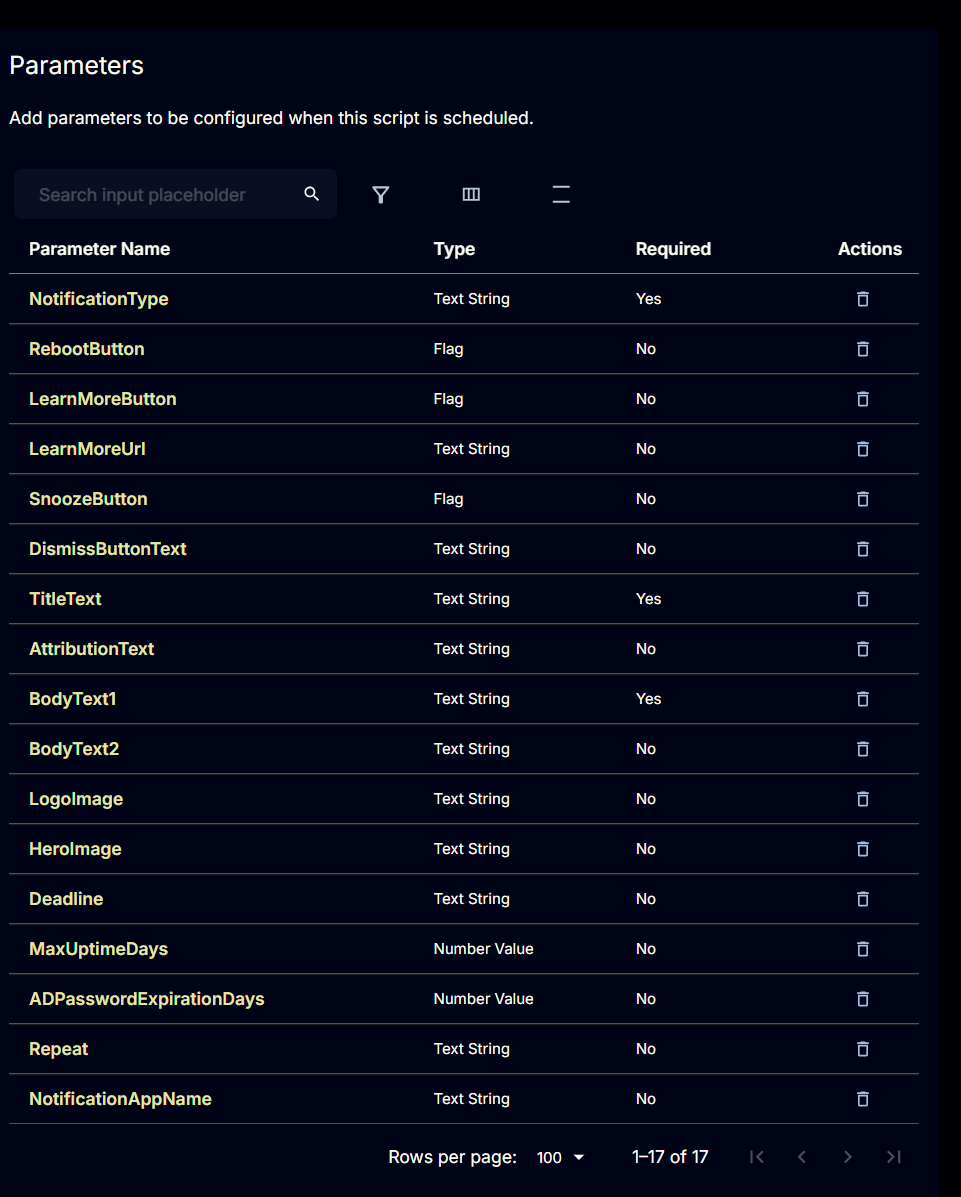
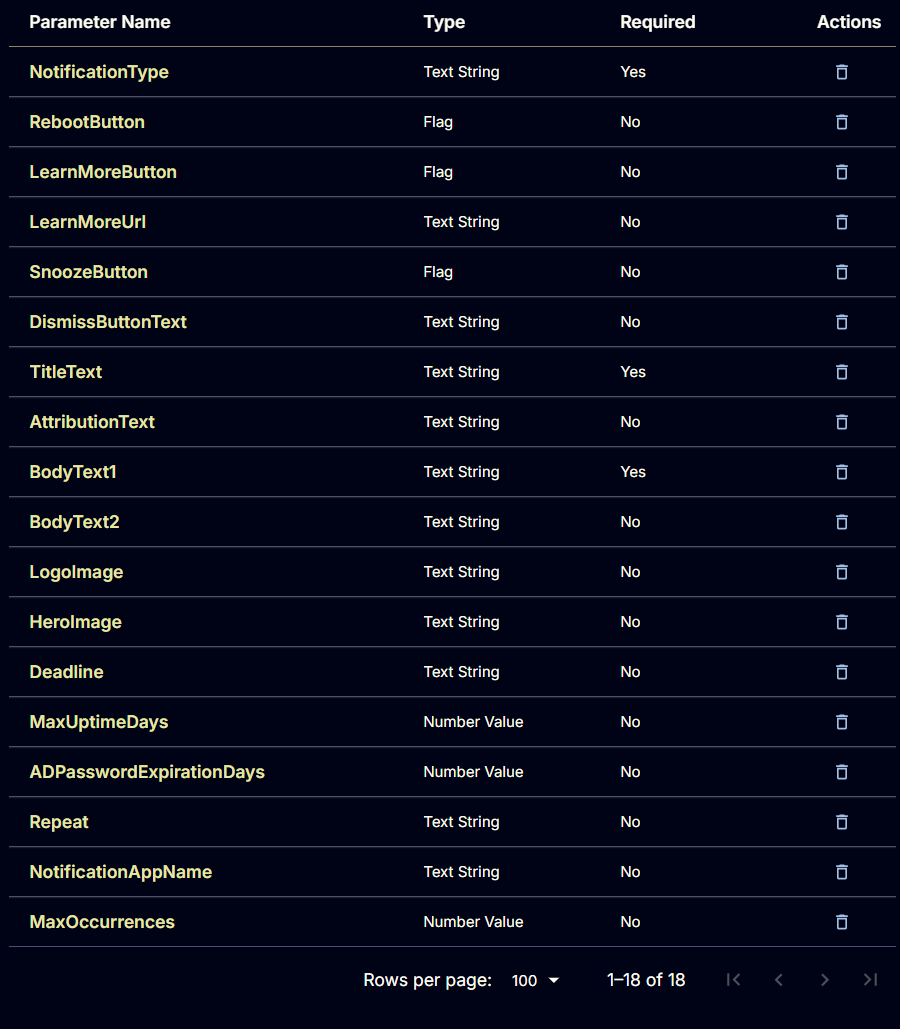
Update Toast-Notification
- Added `MaxOccurrences` parameter to the both CW RMM and Automate implementation of the script

diff --git a/docs/cwrmm/tasks/toast-notification.md b/docs/cwrmm/tasks/toast-notification.md
@@ -15,13 +15,16 @@ unlisted: false
 This task is to create and manage toast notifications with customizable options, including images, buttons, and scenarios for different use cases. It is CW RMM implementation of the agnostic script [Invoke-ToastNotification.ps1](/docs/426118d9-ff83-444e-9744-30a0e26cb490).
 
 ## Sample Run
+
 ![Image1](../../../static/img/cw-rmm-task-toast-notification/Image1.png)
 ![Image2](../../../static/img/cw-rmm-task-toast-notification/Image2.png)
 
 ## Dependencies
+
 [Invoke-ToastNotification](/docs/426118d9-ff83-444e-9744-30a0e26cb490)
 
 ## User Parameters
+
 | Parameter                  | Example                         | Accepted Values             | Required | Default       | Type        | Description              |
 |----------------------------|--------------------------------------------------------------------------------------------------------------|----------------------------------------------------------------------------------------------------------|----------|---------------|-------------|-----------------------------------------------------------------------------------------------------------------------------------------------------------------------------------------------------------------------------------|
 | NotificationType           | Generic                         | Generic<br /> PendingRebootUptime<br /> PendingRebootCheck<br /> ADPasswordExpiration                      | True     |               | Text        | The type of notification to send. The accepted values for NotificationType are generic, PendingRebootUptime, PendingRebootCheck, and ADPasswordExpiration. It is a mandatory variable.<br /><br />**Generic**: Enables a static, generic toast notification.<br /><br />**PendingRebootUptime**: Displays a toast notification reminding users to restart their system after exceeding the maximum uptime.<br /><br />**PendingRebootCheck**: Displays a toast notification when a pending reboot is detected through the system registry or WMI.<br /><br />**ADPasswordExpiration**: Sends a toast notification to users when their Active Directory password is nearing expiration. |
@@ -41,7 +44,7 @@ This task is to create and manage toast notifications with customizable options,
 | ADPasswordExpirationDays   | 7                               |                             | False    | 7             | NumberValue | Number of days before password expiration when reminders should start. It is available for the `ADPasswordExpiration` NotificationType parameter. Default is 7 days.   |
 | Repeat                     | Once                            | Once, Hourly, XXMinutes, XXHours, Daily, XXDays.                  | False    | Once          | Text        | Specifies how frequently the notification should repeat. Options: Once, Hourly, XXMinutes, XXHours, Daily, XXDays. |
 | NotificationAppName        | Connectwise RMM  |  | False    | Windows PowerShell          | Text        | Specifies the name of the application that will display the notification. |
-
+| MaxOccurrences        | 5  |  | False    |  | Number Values   | Specifies the maximum number of notifications to send before the scheduled task is automatically removed. This works in conjunction with the `Repeat` parameter, except when `Repeat` is set to `Once`. |
 
 **NOTE: For All String Parameters (Specifically for TitleText, BodyText1, and BodyText2)  
 Keep the message under 300 characters.  
@@ -363,7 +366,24 @@ Add another parameter by clicking the `Add Parameter` button present at the top-
 
 ![Parameter17](../../../static/img/cw-rmm-task-toast-notification/Parameter17.png)
 
-#### Parameters block: 
+#### MaxOccurrences
+
+Add another parameter by clicking the `Add Parameter` button present at the top-right corner of the screen.
+
+![AddParameter](../../../static/img/cw-rmm-task-toast-notification/AddParameter.png)
+
+- Set `MaxOccurrences` in the `Parameter Name` field.
+
+- Select `Number Value` from the `Parameter Type` dropdown menu.
+
+- Click the `Save` button.
+
+- Click the `Confirm` button to create the parameter.
+
+![Parameter18](../../../static/img/cw-rmm-task-toast-notification/Parameter18.png)
+
+### Parameters block
+
 ![ParameterBlock](../../../static/img/cw-rmm-task-toast-notification/ParameterBlock.png)
 
 ### Task
@@ -382,7 +402,7 @@ Search and select the `PowerShell Script` function.
 
 ![F1Image1](../../../static/img/cw-rmm-task-toast-notification/F1Image1.png)
 
-The following function will pop up on the screen: 
+The following function will pop up on the screen:
 
 ![F1Image2](../../../static/img/cw-rmm-task-toast-notification/F1Imag2.png)
 
@@ -491,6 +511,12 @@ if ('@NotificationAppName@' -match '[0-9A-z]{1,}' -and (('@NotificationAppName@'
     $NotificationAppName = ''
 }
 
+if ('@MaxOccurrences@' -match '[0-9]{1,}' -and (('@MaxOccurrences@').length -ge 1) -and ('@MaxOccurrences@' -notmatch 'MaxOccurrences')) {
+    $MaxOccurrences = '@MaxOccurrences@'
+} else {
+    $MaxOccurrences = ''
+}
+
 $Parameters = @{
     TitleText = $TitleText
     BodyText1 = $BodyText1
@@ -510,6 +536,7 @@ if ($Deadline -ne '') { $parameters.Add('Deadline', $Deadline) }
 if ($MaxUptimeDays -ne '') { $parameters.Add('MaxUptimeDays', $MaxUptimeDays) }
 if ($ADPasswordExpirationDays -ne '') { $parameters.Add('ADPasswordExpirationDays', $ADPasswordExpirationDays) }
 if ($NotificationAppName -ne '') { $parameters.Add('NotificationAppName', $NotificationAppName) }
+if ($MaxOccurrences -ne '') { $parameters.Add('MaxOccurrences', $MaxOccurrences) }
 
 #region Setup - Variables
 $ProjectName = 'Invoke-ToastNotification'
@@ -562,7 +589,8 @@ if ( Test-Path $ErrorLogPath ) {
     $ErrorContent = ( Get-Content -Path $ErrorLogPath )
     return $ErrorContent
 }
-Get-Content -Path $LogPath
+$logContent = Get-Content -path $LogPath
+$logContent[ $($($logContent.IndexOf($($logContent -match "$($ProjectName)$")[-1])) + 1)..$($logContent.length-1) ]
 ```
 
 ![F1Image3](../../../static/img/cw-rmm-task-toast-notification/F1Image3.png)

diff --git a/docs/cwa/scripts/toast-notification-template.md b/docs/cwa/scripts/toast-notification-template.md
@@ -11,21 +11,26 @@ unlisted: false
 ---
 
 ## Summary
+
 This is a copy-only template for clients to use to set up toast notifications. The script is a template with example variables. Ensure each variable is reviewed and adjusted as needed before incorporating them into a production script.
 
 ## Sample Run
+
 This Script is not intended to be run, it is intended to be a template that can be copied to any script that a toast notification is desired.
 
 ## Use Case
+
 Recommended steps to use Toast Notification:
-1. Open the `Toast Notification - Template` script in ConnectWise Automate
-2. Select all lines in the ELSE section of that script
-3. Paste these lines in any script where a toast notification is desired
-4. Enable any required lines and set the desired values.
+
+1. Open the `Toast Notification - Template` script in ConnectWise Automate  
+2. Select all lines in the ELSE section of that script  
+3. Paste these lines in any script where a toast notification is desired  
+4. Enable any required lines and set the desired values.  
 
 **NOTE:** Then Section of this script is intentionally left blank.
 
 ## Dependencies
+
 [Toast Notification](/docs/3aab837d-cb64-4669-aa35-040cce21c575)
 
 [Invoke-ToastNotification](/docs/426118d9-ff83-444e-9744-30a0e26cb490)
@@ -51,6 +56,7 @@ Recommended steps to use Toast Notification:
 | `MaxUptimeDays`             | `MaxUptimeDays` stores the maximum uptime (in days) for the PendingRebootUptime parameter. The default is 30 days. `MaxUptimeDays` is available for the `PendingRebootUptime` notification type. Delete the variable or leave it blank to fall back to the default value. |
 | `ADPasswordExpirationDays`  | `ADPasswordExpirationDays` stores the number of days before password expiration when reminders should start. The default is 7 days. `ADPasswordExpirationDays` is available for the `ADPasswordExpiration` notification type. Delete the variable or leave it blank to fall back to the default value. |
 | `Repeat`                    | `Repeat` specifies how frequently the notification should repeat. Options: Once, Hourly, XXMinutes, XXHours, Daily, XXDays. Delete the variable or leave it blank to fall back to the default value. The default is `Once`.      |
+| `MaxOccurrences`                    | `MaxOccurrences` specifies the maximum number of notifications to send before the scheduled task is automatically removed. This works in conjunction with the `Repeat` parameter, except when `Repeat` is set to `Once`.      |
 
 ## Example
 
@@ -75,8 +81,9 @@ Recommended steps to use Toast Notification:
 | 15  | MaxUptimeDays            | 0                                                                                                                                                   |
 | 16  | ADPasswordExpirationDays | 0                                                                                                                                                   |
 | 17  | Repeat                   | 60Minutes                                                                                                                                           |
+| 18  | MaxOccurrences           |                                                                                                                   |
 
-## Outcome
+### Outcome
 
 #### Notification
 

diff --git a/docs/cwa/scripts/toast-notification.md b/docs/cwa/scripts/toast-notification.md
@@ -11,11 +11,13 @@ unlisted: false
 ---
 
 ## Summary
+
 It is the CW Automate implementation of the agnostic script [Invoke-ToastNotification.ps1](/docs/426118d9-ff83-444e-9744-30a0e26cb490). 
 
 This script downloads and executes the New-ToastNotification.ps1, providing a customizable interface to display toast notifications. It supports scenarios such as system reboots, password expiration warnings, and general user notifications. Users can add custom titles, images, buttons, and deadlines to their notifications. A scheduled task is created for repetitive notifications.
 
 ## File Hash
+
 **File Path:** `C:\ProgramData\_automation\Script\New-ToastNotification\New-ToastNotification\New-ToastNotification.ps1`
 
[1 lines of base64/hex data omitted]
@@ -23,10 +25,12 @@ This script downloads and executes the New-ToastNotification.ps1, providing a cu
 **File Hash (MD5):** `6ABAC1DE688E93CD27001887A3F92B27`
 
 ## Sample Run
+
 This script is a function script and should not be manually executed.
 Utilize the [Toast Notification - Template](/docs/e6115fa5-78ac-4b04-8b3f-d0dd0c2e559f) to get a copy of all potential variables and paste the else section into any script that should use Prompter.
 
 ## Dependencies
+
 [Toast Notification - Template](/docs/e6115fa5-78ac-4b04-8b3f-d0dd0c2e559f)
 
 [Invoke-ToastNotification](/docs/426118d9-ff83-444e-9744-30a0e26cb490)
@@ -56,9 +60,10 @@ Utilize the [Toast Notification - Template](/docs/e6115fa5-78ac-4b04-8b3f-d0dd0c
 | MaxUptimeDays               | @MaxUptimeDays@ stores the maximum uptime (in days) for the PendingRebootUptime parameter. The default is 30 days. @MaxUptimeDays@ is available for the `PendingRebootUptime` notification type. Delete the variable or leave it blank to fall back to the default value. |
 | ADPasswordExpirationDays    | @ADPasswordExpirationDays@ stores the number of days before password expiration when reminders should start. The default is 7 days. The default is 30 days. @ADPasswordExpirationDays@ is available for the `ADPasswordExpiration` notification type. Delete the variable or leave it blank to fall back to the default value. |
 | Repeat                      | @Repeat@ specifies how frequently the notification should repeat. Options: Once, Hourly, XXMinutes, XXHours, Daily, XXDays. Delete the variable or leave it blank to fall back to the default value. The default is `Once`.      |
-
+| MaxOccurrences              | @MaxOccurrences@ specifies the maximum number of notifications to send before the scheduled task is automatically removed. This works in conjunction with the @Repeat@ parameter, except when @Repeat@ is set to `Once`.      |
 
 **These variables should be set in the script running/calling this script.
 
 ## Output
+
 - Script logs
